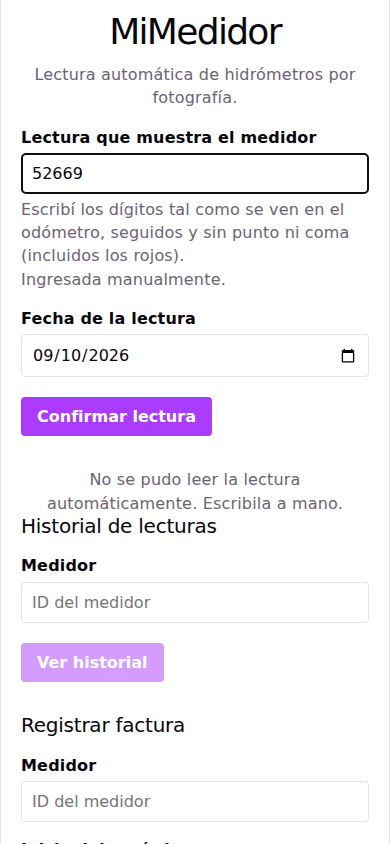
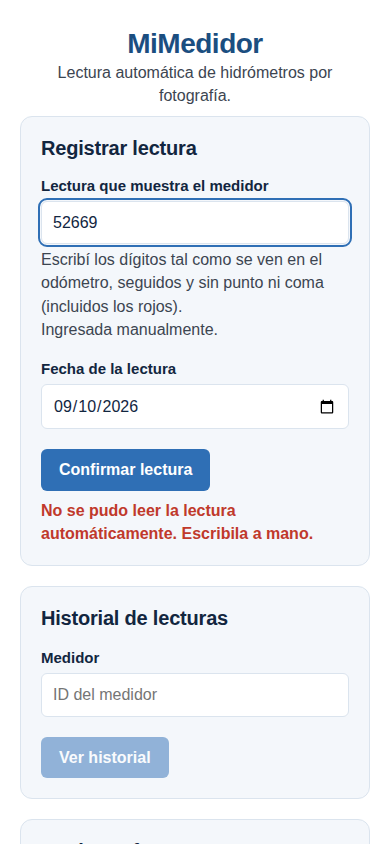
T-52: paleta propia y tarjetas consistentes en las tres pantallas
index.css usaba el morado de la plantilla de Vite. Se cambio por los colores del
icono de la PWA (client/public/icono.svg, theme_color en vite.config.ts) para que
la app instalada y la app en el navegador se vean como una sola cosa.

Las tres pantallas -captura, historial, factura- ahora comparten una clase .pantalla
(tarjeta con el mismo padding, borde y fondo) en vez de leerse como tres formularios
sueltos pegados uno debajo del otro. PantallaCaptura gano un h2 'Registrar lectura'
para quedar al mismo nivel que las otras dos.

No se toco el flujo ni los textos de los componentes salvo ese titulo: las pruebas
de Vitest pasan sin haber sido modificadas.

Las capturas de docs/manual-usuario/ se regeneraron con la app corriendo de verdad,
y se quito del manual la advertencia de que faltaba esta pasada visual.

Closes #95

diff --git a/client/src/index.css b/client/src/index.css
@@ -1,18 +1,25 @@
+/* Paleta propia del proyecto (T-52): los mismos colores del ícono de la PWA
+   (client/public/icono.svg, theme_color en vite.config.ts) — así la app instalada y la
+   app abierta en el navegador se ven como una sola cosa, en vez del morado de la plantilla
+   de Vite que traía antes de T-42. */
 :root {
-  --text: #6b6375;
-  --text-h: #08060d;
-  --bg: #fff;
-  --border: #e5e4e7;
-  --accent: #aa3bff;
+  --azul-oscuro: #1b4e80;
+  --azul: #2f6fb5;
+  --azul-claro: #8fb4d9;
+  --rojo: #c0392b;
 
-  --sans: system-ui, 'Segoe UI', Roboto, sans-serif;
-  --heading: system-ui, 'Segoe UI', Roboto, sans-serif;
+  --texto: #3c4551;
+  --texto-fuerte: #12263f;
+  --fondo: #fff;
+  --fondo-tarjeta: #f4f7fb;
+  --borde: #dbe4ee;
 
-  font: 18px/145% var(--sans);
-  letter-spacing: 0.18px;
+  --sans: 'Segoe UI', Roboto, 'Helvetica Neue', Arial, sans-serif;
+
+  font: 17px/145% var(--sans);
   color-scheme: light dark;
-  color: var(--text);
-  background: var(--bg);
+  color: var(--texto);
+  background: var(--fondo);
   font-synthesis: none;
   text-rendering: optimizeLegibility;
   -webkit-font-smoothing: antialiased;
@@ -25,65 +32,78 @@
 
 @media (prefers-color-scheme: dark) {
   :root {
-    --text: #9ca3af;
-    --text-h: #f3f4f6;
-    --bg: #16171d;
-    --border: #2e303a;
-    --accent: #c084fc;
+    --azul: #5b93cf;
+    --azul-claro: #8fb4d9;
+    --texto: #b9c4d1;
+    --texto-fuerte: #eef3f8;
+    --fondo: #0f1b28;
+    --fondo-tarjeta: #16263a;
+    --borde: #23384f;
   }
 }
 
-#root {
-  width: 1126px;
-  max-width: 100%;
-  margin: 0 auto;
-  text-align: center;
-  border-inline: 1px solid var(--border);
-  min-height: 100svh;
-  display: flex;
-  flex-direction: column;
+* {
   box-sizing: border-box;
-  padding: 0 20px 32px;
 }
 
 body {
   margin: 0;
 }
 
+#root {
+  max-width: 640px;
+  margin: 0 auto;
+  min-height: 100svh;
+  padding: 0 20px 40px;
+}
+
+header {
+  text-align: center;
+  padding: 32px 0 8px;
+}
+
 h1,
 h2 {
-  font-family: var(--heading);
-  font-weight: 500;
-  color: var(--text-h);
+  font-family: var(--sans);
+  font-weight: 600;
+  color: var(--texto-fuerte);
 }
 
 h1 {
-  font-size: 56px;
-  letter-spacing: -1.68px;
-  margin: 32px 0;
+  font-size: 34px;
+  letter-spacing: -0.5px;
+  margin: 0 0 6px;
+  color: var(--azul-oscuro);
   @media (max-width: 1024px) {
-    font-size: 36px;
-    margin: 20px 0;
+    font-size: 28px;
   }
 }
+
 h2 {
-  font-size: 24px;
-  line-height: 118%;
-  letter-spacing: -0.24px;
-  margin: 0 0 8px;
-  @media (max-width: 1024px) {
-    font-size: 20px;
-  }
+  font-size: 20px;
+  letter-spacing: -0.2px;
+  margin: 0 0 14px;
 }
+
 p {
   margin: 0;
 }
 
-/* Layout de formularios (T-42): sin esto, cada rótulo quedaba pegado a su campo, y cada campo
-   pegado al siguiente, en las tres pantallas. */
+/* Cada una de las tres pantallas —captura, historial, factura— es una "tarjeta" del mismo
+   tamaño y con el mismo trato visual, para que se lean como secciones de una sola aplicación
+   y no como tres formularios pegados uno debajo del otro (T-52). */
+.pantalla {
+  display: block;
+  background: var(--fondo-tarjeta);
+  border: 1px solid var(--borde);
+  border-radius: 12px;
+  padding: 20px;
+  margin: 0 0 20px;
+  text-align: left;
+}
+
 section {
-  max-width: 480px;
-  margin: 0 auto 32px;
+  max-width: 100%;
   text-align: left;
 }
 
@@ -92,7 +112,12 @@ label {
   margin-top: 16px;
   margin-bottom: 4px;
   font-weight: 600;
-  color: var(--text-h);
+  font-size: 15px;
+  color: var(--texto-fuerte);
+}
+
+label:first-child {
+  margin-top: 0;
 }
 
 input,
@@ -100,25 +125,40 @@ select {
   display: block;
   width: 100%;
   box-sizing: border-box;
-  padding: 8px 10px;
+  padding: 9px 11px;
   margin-bottom: 4px;
   font: inherit;
-  color: var(--text-h);
-  background: var(--bg);
-  border: 1px solid var(--border);
-  border-radius: 4px;
+  color: var(--texto-fuerte);
+  background: var(--fondo);
+  border: 1px solid var(--borde);
+  border-radius: 6px;
+}
+
+input:focus,
+select:focus {
+  outline: 2px solid var(--azul);
+  outline-offset: 1px;
 }
 
 button {
   margin-top: 16px;
-  padding: 8px 16px;
+  padding: 9px 18px;
   font: inherit;
   font-weight: 600;
   color: #fff;
-  background: var(--accent);
+  background: var(--azul);
   border: none;
-  border-radius: 4px;
+  border-radius: 6px;
   cursor: pointer;
+}
+
+button:hover:not(:disabled) {
+  background: var(--azul-oscuro);
+}
+
+button:focus-visible {
+  outline: 2px solid var(--azul-oscuro);
+  outline-offset: 2px;
 }
 
 button:disabled {
@@ -135,27 +175,34 @@ th,
 td {
   text-align: left;
   padding: 8px;
-  border-bottom: 1px solid var(--border);
+  border-bottom: 1px solid var(--borde);
 }
 
-/* Visor de cámara y guía de encuadre (T-16). Vivían en App.css, que ningún archivo importaba
-   (T-42) — la guía nunca se veía y el video no tenía el max-width que lo contiene en pantallas
-   angostas. */
+th {
+  color: var(--texto-fuerte);
+}
+
+p[role='alert'] {
+  color: var(--rojo);
+  font-weight: 600;
+  margin-top: 8px;
+}
+
+/* Visor de cámara y guía de encuadre (T-16, arreglado en T-42). */
 .visor-camara {
   position: relative;
   width: 100%;
   max-width: 480px;
+  margin: 0 auto 12px;
 }
 
 .visor-camara video {
   width: 100%;
   border-radius: 8px;
   background: #000;
+  display: block;
 }
 
-/* Guía de encuadre (T-16): un anillo centrado sobre el video para ayudar a alinear la
-   carátula circular del hidrómetro antes de disparar — mejora la foto de entrada y reduce
-   el trabajo de T-09 (detección de círculo). */
 .guia-encuadre {
   position: absolute;
   inset: 12% 25%;

diff --git a/client/src/App.tsx b/client/src/App.tsx
@@ -4,13 +4,17 @@ import PantallaFactura from './PantallaFactura'
 
 function App() {
   return (
-    <main>
-      <h1>MiMedidor</h1>
-      <p>Lectura automática de hidrómetros por fotografía.</p>
-      <PantallaCaptura />
-      <PantallaHistorial />
-      <PantallaFactura />
-    </main>
+    <>
+      <header>
+        <h1>MiMedidor</h1>
+        <p>Lectura automática de hidrómetros por fotografía.</p>
+      </header>
+      <main>
+        <PantallaCaptura />
+        <PantallaHistorial />
+        <PantallaFactura />
+      </main>
+    </>
   )
 }
 

diff --git a/client/src/PantallaFactura.tsx b/client/src/PantallaFactura.tsx
@@ -70,7 +70,7 @@ function PantallaFactura() {
 
   if (estado === 'listo' && comparacion) {
     return (
-      <section>
+      <section className="pantalla">
         <h2>Comparación de tu factura</h2>
         <p>Consumo facturado: {comparacion.consumo_facturado_m3} m³</p>
         <p>
@@ -89,7 +89,7 @@ function PantallaFactura() {
   }
 
   return (
-    <section>
+    <section className="pantalla">
       <h2>Registrar factura</h2>
       <form onSubmit={manejarEnviar}>
         <label htmlFor="factura-medidor">Medidor</label>

diff --git a/client/src/PantallaCaptura.tsx b/client/src/PantallaCaptura.tsx
@@ -133,7 +133,8 @@ function PantallaCaptura() {
   }
 
   return (
-    <div>
+    <div className="pantalla">
+      <h2>Registrar lectura</h2>
       {estado === 'inicio' && (
         <section>
           <label htmlFor="medidor-id">Medidor</label>

diff --git a/client/src/PantallaHistorial.tsx b/client/src/PantallaHistorial.tsx
@@ -37,7 +37,7 @@ function PantallaHistorial() {
   }
 
   return (
-    <section>
+    <section className="pantalla">
       <h2>Historial de lecturas</h2>
 
       <label htmlFor="medidor-historial">Medidor</label>

diff --git a/docs/manual-usuario.md b/docs/manual-usuario.md
@@ -245,9 +245,6 @@ Escrito a propósito, para que nadie espere algo que no está:
   ver el historial necesita internet.
 - **No avisa nada por su cuenta.** No manda notificaciones ni correos.
 - **No guarda la foto.** Se usa para intentar leer el número y se descarta.
-- **La pantalla todavía no tiene diseño propio.** T-42 arregló que la aplicación se viera rota
-  (la guía de encuadre no se veía, el video se salía de la pantalla, los campos quedaban
-  pegados); falta la pasada visual —tipografía y paleta propias— que le toca a T-52.
 
 ---
 
